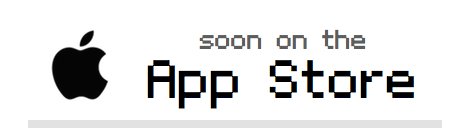
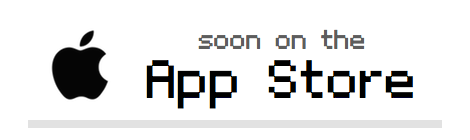
Site: add App Store + lemmi ffs.

diff --git a/_sass/meta/_content.scss b/_sass/meta/_content.scss
@@ -159,6 +159,46 @@
 }
 
 // -------------------------------------------------------
+// Platforms.
+// -------------------------------------------------------
+
+.platforms {
+  display: table;
+  padding-top: 20px;
+  width: 100%;
+  text-align: center;
+
+  .image__ios {
+    opacity: 0.5;
+    width: 235px;
+    height: 70px;
+  }
+
+  .image__lemmi {
+    width: 246px;
+    height: 167px;
+  }
+}
+
+.platforms__stores {
+  display: table-cell;
+  width: 350px;
+  vertical-align: middle;
+}
+
+.platforms__android {
+  width: 150px;
+  margin: 0 auto;
+  color: #acacac;
+  font-size: 0.8rem;
+}
+
+.platforms__lemmi {
+  display: table-cell;
+  vertical-align: middle;
+}
+
+// -------------------------------------------------------
 // Contact.
 // -------------------------------------------------------
 

diff --git a/index.html b/index.html
@@ -24,6 +24,20 @@ layout: default
     <p>
       The development is already well underway. More to come, <a href="http://supermassive-devblog.tumblr.com">stay tuned with our devblog</a>.
     </p>
+
+    <div class="platforms">
+      <div class="platforms__stores">
+        <div class="platforms__ios">
+          <img src="/static/images/appstore.png" class="image__ios" />
+        </div>
+        <div class="platforms__android">
+          and Android in the coming months
+        </div>
+      </div>
+      <div class="platforms__lemmi">
+        <img src="/static/images/packaging.png" class="image__lemmi" />
+      </div>
+    </div>
   </div>
 </section>
 
